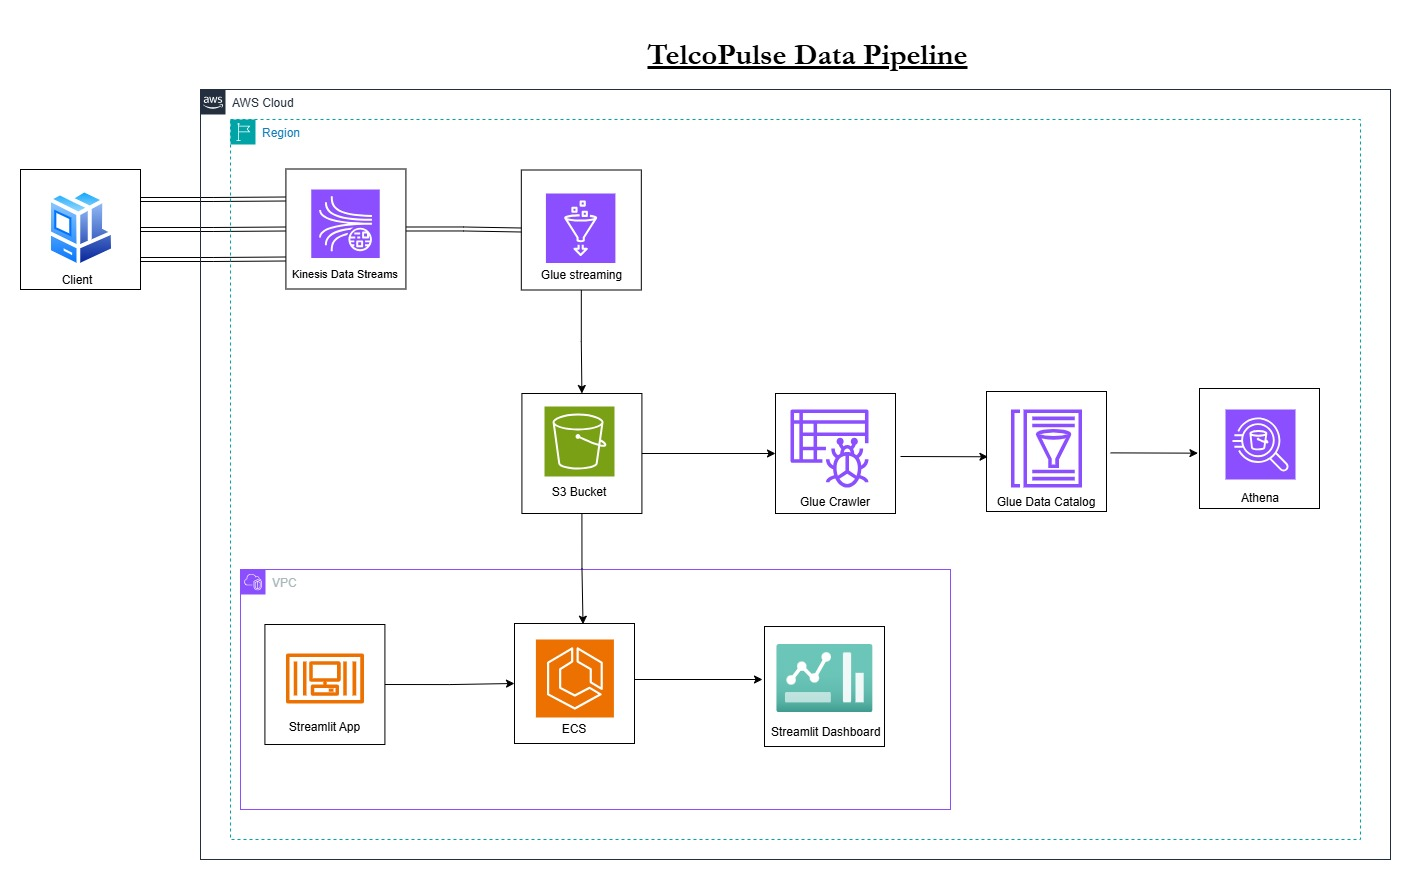
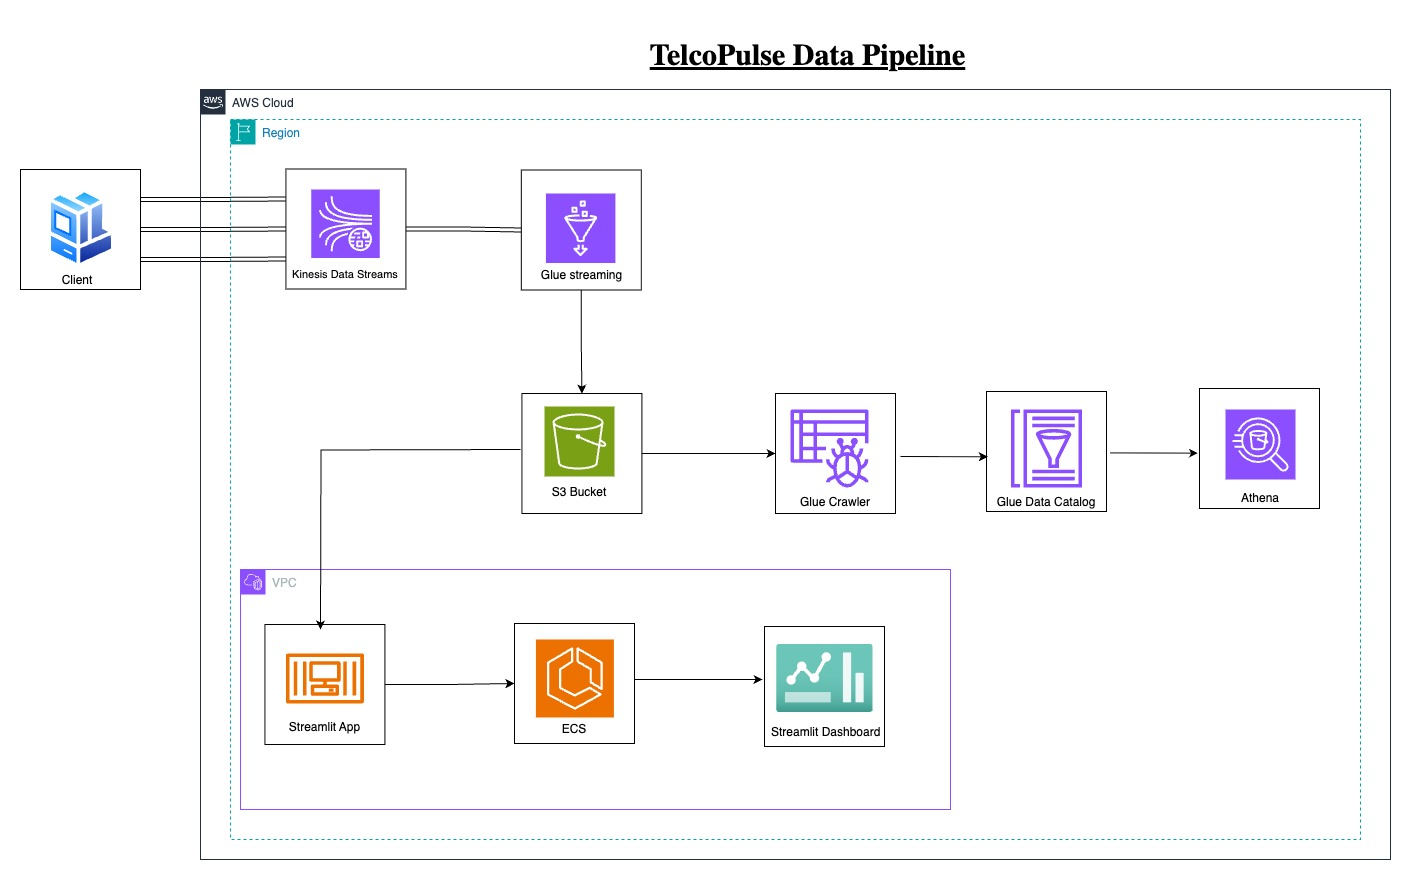
Update README.md to reference new architecture diagram and remove outdated image; replace detailed architecture diagram file.

diff --git a/README.md b/README.md
@@ -39,7 +39,7 @@ The project demonstrates end-to-end streaming data pipeline architecture using m
 4. S3 → Streamlit Dashboard  
 
 ### Detailed Architecture
-![Detailed Level Architecture](assets/images/architecture_diagram-detailed.jpg)
+![Detailed Level Architecture](assets/images/detailed_architecture_diagram.jpg)
 
 ---
 
